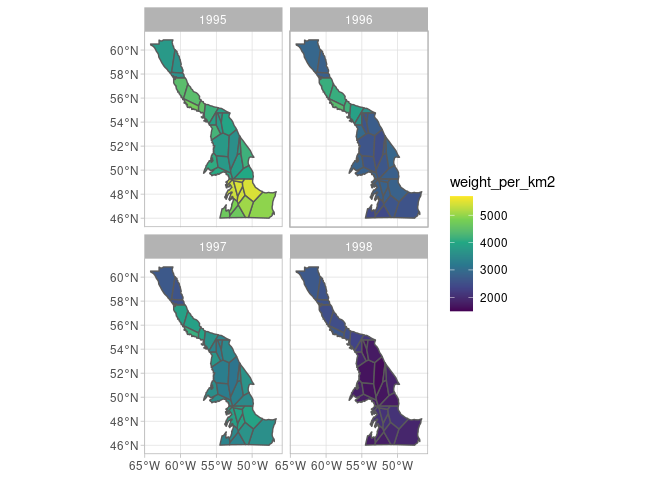
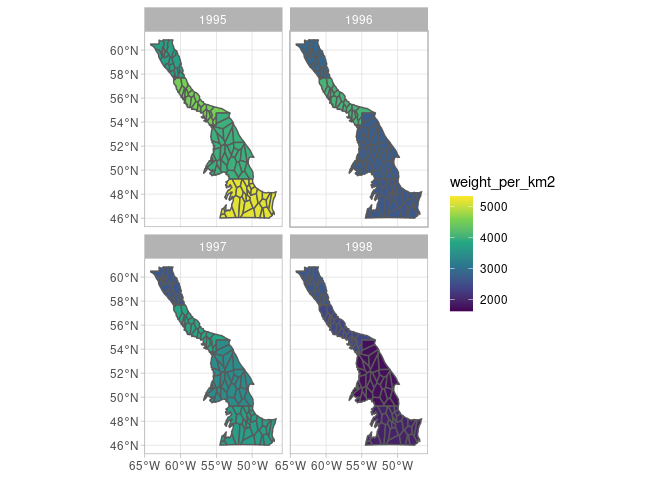
update readme

diff --git a/README.md b/README.md
@@ -148,8 +148,8 @@ bounds_voronoi
 #> 
 #> ‒‒ Boundaries (Discrete) ‒‒
 #> →  [4 rows, 3 columns]
-#>   ٭ Points — [120 features, 11 columns]
-#>   ٭ Patches — [35 features, 4 columns]
+#>   ٭ Points — [120 features, 10 columns]
+#>   ٭ Patches — [92 features, 4 columns]
 #> →  Column : sfa
 #> →  Area : area_sfa
 ```
@@ -190,47 +190,47 @@ plot(bounds_delaunay)
 
 ``` r
 spm_patches(bounds_voronoi)
-#> Simple feature collection with 35 features and 3 fields
+#> Simple feature collection with 92 features and 3 fields
 #> Geometry type: POLYGON
 #> Dimension:     XY
-#> Bounding box:  xmin: -64.18658 ymin: 46.00004 xmax: -46.6269 ymax: 60.84333
+#> Bounding box:  xmin: -64.18658 ymin: 46.00004 xmax: -46.6269 ymax: 60.84488
 #> Geodetic CRS:  WGS 84
-#> # A tibble: 35 × 4
+#> # A tibble: 92 × 4
 #>    sfa   patch_id patch_area                                            geometry
 #>  * <fct> <fct>        [km^2]                                       <POLYGON [°]>
-#>  1 4     P1           31350. ((-61.49885 58.11503, -61.24738 58.14026, -60.7703…
-#>  2 4     P2           11607. ((-60.77034 60.02342, -61.24738 58.14026, -59.6984…
-#>  3 4     P3            4619. ((-59.37831 57.67423, -59.43377 57.71988, -59.4892…
-#>  4 5     P4           13657. ((-56.7447 54.34709, -56.66417 54.34705, -56.66416…
-#>  5 5     P5           14514. ((-59.6728 55.88317, -59.58696 55.95008, -58.97613…
-#>  6 5     P6           15164. ((-58.97613 57.16068, -59.58696 55.95008, -57.4711…
-#>  7 5     P7            6354. ((-57.48427 54.91192, -57.4711 55.3424, -59.58696 …
-#>  8 5     P8            7935. ((-55 54.75, -54.37418 54.75322, -53.92907 54.7535…
-#>  9 5     P9            5235. ((-56.72208 54.49769, -56.56636 55.50528, -56.6883…
-#> 10 6     P10           9317. ((-52.69796 49.24956, -52.9605 49.75061, -54.76086…
-#> # … with 25 more rows
+#>  1 4     P1            5867. ((-62.56544 59.47292, -62.51885 60.2501, -62.42353…
+#>  2 4     P2            6294. ((-61.15825 60.5856, -61.18083 60.61861, -61.16696…
+#>  3 4     P3            1594. ((-61.98352 59.91756, -62.14032 59.90335, -62.3916…
+#>  4 4     P4            1882. ((-61.60726 58.17744, -61.55968 58.21747, -61.5430…
+#>  5 4     P5            1890. ((-61.54308 58.72455, -60.98005 58.90554, -60.9787…
+#>  6 4     P6            2149. ((-62.81971 59.18792, -62.54312 59.42411, -62.5654…
+#>  7 4     P7            2461. ((-61.55968 58.21747, -60.90082 58.30673, -60.7969…
+#>  8 4     P8            1580. ((-60.85729 60.08226, -60.87677 60.07412, -61.2755…
+#>  9 4     P9            7244. ((-60.30623 57.88979, -60.09616 58.23633, -60.1909…
+#> 10 4     P10           1570. ((-59.93021 58.87649, -60.19091 58.62062, -60.0961…
+#> # … with 82 more rows
 spm_points(bounds_voronoi)
-#> Simple feature collection with 120 features and 10 fields
+#> Simple feature collection with 120 features and 9 fields
 #> Geometry type: POINT
 #> Dimension:     XY
-#> Bounding box:  xmin: -62.7333 ymin: 46.10625 xmax: -47.27537 ymax: 60.35241
+#> Bounding box:  xmin: -62.95014 ymin: 46.05739 xmax: -47.39935 ymax: 60.81292
 #> Geodetic CRS:  WGS 84
-#> # A tibble: 120 × 11
+#> # A tibble: 120 × 10
 #> # Groups:   sfa [4]
-#>    year_f sfa   weight_per_km2 temp_at_bottom lon_dec lat_dec   row uniqueID   
-#>  * <fct>  <chr>      [kg/km^2]          <dbl>   <dbl>   <dbl> <int> <chr>      
-#>  1 1995   7                0            1.45    -58.8    56.3     6 y1995s7r6  
-#>  2 1995   5                0            0       -50.6    50.6    51 y1995s5r51 
-#>  3 1996   7              759.           0.605   -55.5    50.2    69 y1996s7r69 
-#>  4 1996   6            13293.           3.00    -53.4    46.4   100 y1996s6r100
-#>  5 1996   5                0            0.934   -52.8    52.2   113 y1996s5r113
-#>  6 1996   4             2050.           2.92    -53.1    50.8   125 y1996s4r125
-#>  7 1997   7             1368.           0       -57.4    55.1   147 y1997s7r147
-#>  8 1997   6               85.4          2.31    -50.7    47.7   176 y1997s6r176
-#>  9 1997   4                0            5.18    -60.9    59.6   182 y1997s4r182
-#> 10 1997   5             4535.           1.27    -51.5    49.3   206 y1997s5r206
-#> # … with 110 more rows, and 3 more variables: geometry <POINT [°]>,
-#> #   sfa_duplicate <fct>, area_sfa [km^2]
+#>    year_f weight_per_km2 temp_at_bottom lon_dec lat_dec   row uniqueID   
+#>  * <fct>       [kg/km^2]          <dbl>   <dbl>   <dbl> <int> <chr>      
+#>  1 1995            7117.          3.88    -61.7    60.0    21 y1995s6r21 
+#>  2 1995               0           2.33    -59.2    57.3    23 y1995s6r23 
+#>  3 1995               0           1.03    -54.0    46.1    40 y1995s6r40 
+#>  4 1996             553.          2.97    -59.5    56.0    65 y1996s7r65 
+#>  5 1996            6538.          4.42    -61.3    60.8   102 y1996s5r102
+#>  6 1996            2427.          2.17    -55.4    54.4   105 y1996s5r105
+#>  7 1996            1945.          0       -48.4    47.2   138 y1996s4r138
+#>  8 1997               0           0.649   -55.3    54.7   144 y1997s7r144
+#>  9 1997            1430.          0       -54.4    50.2   149 y1997s7r149
+#> 10 1997               0           5.18    -60.9    59.6   182 y1997s4r182
+#> # … with 110 more rows, and 3 more variables: geometry <POINT [°]>, sfa <fct>,
+#> #   area_sfa [km^2]
 ```
 
 7.  The next step in this workflow is to smooth the variables to be used
@@ -259,7 +259,7 @@ biomass_smooth
 #> →  [1801 rows, 12 columns]
 #> →  Density : weight_per_km2
 #> →  Time : year_f
-#> →  Smoothed data : [840 rows, 8 columns]
+#> →  Smoothed data : [2208 rows, 8 columns]
 #>    ٭ Smoothed vars: temp_at_bottom — weight_per_km2
 ```
 
@@ -287,8 +287,6 @@ predator_smooth <- predator_dataset %>%
              boundaries = bounds_voronoi,
              drop.unused.levels = F, family=tw, method= "fREML")
 #> ℹ  Fitting formula: weight_per_km2 ~ smooth_time(k = 3) + smooth_space() for dataset 'all_predators'
-#> Warning in bgam.fit(G, mf, chunk.size, gp, scale, gamma, method = method, :
-#> algorithm did not converge
 
 predator_smooth
 #> 
@@ -296,7 +294,7 @@ predator_smooth
 #> →  [10201 rows, 11 columns]
 #> →  Density : weight_per_km2
 #> →  Time : year_f
-#> →  Smoothed data : [1400 rows, 7 columns]
+#> →  Smoothed data : [3680 rows, 7 columns]
 #>    ٭ Smoothed vars: weight_per_km2
 ```
 
@@ -339,7 +337,7 @@ biomass_smooth_w_catch
 #> →  [1801 rows, 12 columns]
 #> →  Density : weight_per_km2
 #> →  Time : year_f
-#> →  Smoothed data : [840 rows, 13 columns]
+#> →  Smoothed data : [2208 rows, 13 columns]
 #>    ٭ Smoothed vars: temp_at_bottom — weight_per_km2
 #>    ٭ Vars with catch: weight_per_km2_borealis_with_catch
 ```
@@ -356,7 +354,7 @@ sspm_model <- sspm(biomass = biomass_smooth_w_catch,
 sspm_model
 #> 
 #> ‒‒ Model (2 datasets) ‒‒
-#> →  Smoothed data : [840 rows, 14 columns]
+#> →  Smoothed data : [2208 rows, 14 columns]
 #>    ٭ Smoothed vars: temp_at_bottom — weight_per_km2_all_predators — weight_per_km2_borealis
 #>    ٭ Vars with catch: weight_per_km2_borealis_with_catch
 ```
@@ -371,7 +369,7 @@ sspm_model <- sspm_model %>%
 sspm_model
 #> 
 #> ‒‒ Model (2 datasets) ‒‒
-#> →  Smoothed data : [840 rows, 15 columns] / [805 train, 35 test]
+#> →  Smoothed data : [2208 rows, 15 columns] / [2116 train, 92 test]
 #>    ٭ Smoothed vars: temp_at_bottom — weight_per_km2_all_predators — weight_per_km2_borealis
 #>    ٭ Vars with catch: weight_per_km2_borealis_with_catch
 ```
@@ -388,7 +386,7 @@ sspm_model <- sspm_model %>%
 sspm_model
 #> 
 #> ‒‒ Model (2 datasets) ‒‒
-#> →  Smoothed data : [840 rows, 17 columns] / [805 train, 35 test]
+#> →  Smoothed data : [2208 rows, 17 columns] / [2116 train, 92 test]
 #>    ٭ Smoothed vars: temp_at_bottom — weight_per_km2_all_predators — weight_per_km2_borealis
 #>    ٭ Vars with catch: weight_per_km2_borealis_with_catch — weight_per_km2_borealis_with_catch_lag_1
 #>    ٭ lagged vars: weight_per_km2_all_predators_lag_1 — weight_per_km2_borealis_with_catch_lag_1
@@ -408,10 +406,10 @@ sspm_model_fit <- sspm_model %>%
 sspm_model_fit
 #> 
 #> ‒‒ Model fit ‒‒
-#> →  Smoothed data : [840 rows, 17 columns] / [805 train, 35 test]
+#> →  Smoothed data : [2208 rows, 17 columns] / [2116 train, 92 test]
 #> →  Fit summary : 
 #> 
-#> Family: Scaled t(7.607,0.19) 
+#> Family: Scaled t(12.132,0.197) 
 #> Link function: identity 
 #> 
 #> Formula:
@@ -421,23 +419,23 @@ sspm_model_fit
 #> 
 #> Parametric coefficients:
 #>                                     Estimate Std. Error t value Pr(>|t|)    
-#> (Intercept)                        5.896e-01  6.189e-02   9.525  < 2e-16 ***
-#> sfa5                               5.405e-02  3.240e-02   1.668  0.09568 .  
-#> sfa6                               9.308e-02  3.022e-02   3.080  0.00214 ** 
-#> sfa7                               7.824e-02  3.071e-02   2.548  0.01103 *  
-#> weight_per_km2_all_predators_lag_1 1.244e-05  1.800e-05   0.691  0.48990    
+#> (Intercept)                        6.451e-01  3.662e-02  17.617  < 2e-16 ***
+#> sfa5                               5.280e-02  1.585e-02   3.331 0.000882 ***
+#> sfa6                               9.309e-02  1.516e-02   6.139 1.00e-09 ***
+#> sfa7                               8.667e-02  1.552e-02   5.584 2.67e-08 ***
+#> weight_per_km2_all_predators_lag_1 3.426e-05  1.096e-05   3.127 0.001793 ** 
 #> ---
 #> Signif. codes:  0 '***' 0.001 '**' 0.01 '*' 0.05 '.' 0.1 ' ' 1
 #> 
 #> Approximate significance of smooth terms:
-#>                           edf Ref.df       F p-value    
-#> s(lag_matrix):by_matrix 4.958      5 117.482  <2e-16 ***
-#> s(patch_id)             1.006     28   7.471  <2e-16 ***
+#>                            edf Ref.df     F p-value    
+#> s(lag_matrix):by_matrix 4.9849      5 332.5  <2e-16 ***
+#> s(patch_id)             0.9987     29  22.2  <2e-16 ***
 #> ---
 #> Signif. codes:  0 '***' 0.001 '**' 0.01 '*' 0.05 '.' 0.1 ' ' 1
 #> 
-#> R-sq.(adj) =  0.758   Deviance explained = 53.3%
-#> -REML =   1135  Scale est. = 1         n = 770
+#> R-sq.(adj) =  0.649   Deviance explained = 49.4%
+#> -REML =   2918  Scale est. = 1         n = 2024
 ```
 
 16. Plotting the object produces a actual vs predicted plot (with
@@ -445,7 +443,7 @@ sspm_model_fit
 
 ``` r
 plot(sspm_model_fit, train_test = TRUE, scales = "free")
-#> Warning: Removed 35 rows containing missing values (geom_point).
+#> Warning: Removed 92 rows containing missing values (geom_point).
 ```
 
 <img src="man/figures/README-unnamed-chunk-21-1.png" width="100%" />
@@ -458,22 +456,22 @@ head(preds)
 #> Simple feature collection with 6 features and 6 fields
 #> Geometry type: POLYGON
 #> Dimension:     XY
-#> Bounding box:  xmin: -64.18658 ymin: 58.11503 xmax: -60.77034 ymax: 60.84333
+#> Bounding box:  xmin: -64.18658 ymin: 59.47292 xmax: -62.26589 ymax: 60.84335
 #> Geodetic CRS:  WGS 84
 #>      pred_log      pred patch_id year_f sfa      patch_area
-#> 1 -0.02730678 0.9730627       P1   1995   4 31350.28 [km^2]
-#> 2 -0.19554690 0.8223848       P1   1996   4 31350.28 [km^2]
-#> 3  0.05315999 1.0545984       P1   1997   4 31350.28 [km^2]
-#> 4 -0.01628782 0.9838441       P1   1998   4 31350.28 [km^2]
-#> 5  0.03051588 1.0309863       P1   1999   4 31350.28 [km^2]
-#> 6  0.01365585 1.0137495       P1   2000   4 31350.28 [km^2]
+#> 1 -0.01082131 0.9892370       P1   1995   4 5866.769 [km^2]
+#> 2 -0.20447196 0.8150776       P1   1996   4 5866.769 [km^2]
+#> 3  0.05312451 1.0545609       P1   1997   4 5866.769 [km^2]
+#> 4 -0.01467134 0.9854358       P1   1998   4 5866.769 [km^2]
+#> 5  0.04595468 1.0470270       P1   1999   4 5866.769 [km^2]
+#> 6  0.01870983 1.0188860       P1   2000   4 5866.769 [km^2]
 #>                         geometry
-#> 1 POLYGON ((-61.49885 58.1150...
-#> 2 POLYGON ((-61.49885 58.1150...
-#> 3 POLYGON ((-61.49885 58.1150...
-#> 4 POLYGON ((-61.49885 58.1150...
-#> 5 POLYGON ((-61.49885 58.1150...
-#> 6 POLYGON ((-61.49885 58.1150...
+#> 1 POLYGON ((-62.56544 59.4729...
+#> 2 POLYGON ((-62.56544 59.4729...
+#> 3 POLYGON ((-62.56544 59.4729...
+#> 4 POLYGON ((-62.56544 59.4729...
+#> 5 POLYGON ((-62.56544 59.4729...
+#> 6 POLYGON ((-62.56544 59.4729...
 ```
 
 We can also get the predictions for biomass by passing the biomass
@@ -485,29 +483,29 @@ head(biomass_preds)
 #> Simple feature collection with 6 features and 8 fields
 #> Geometry type: POLYGON
 #> Dimension:     XY
-#> Bounding box:  xmin: -64.18658 ymin: 58.11503 xmax: -60.77034 ymax: 60.84333
+#> Bounding box:  xmin: -64.18658 ymin: 59.47292 xmax: -62.26589 ymax: 60.84335
 #> Geodetic CRS:  WGS 84
 #>   patch_id year_f sfa      patch_area biomass_density_with_catch
-#> 1       P1   1995   4 31350.28 [km^2]         3647.214 [kg/km^2]
-#> 2       P1   1996   4 31350.28 [km^2]         2374.311 [kg/km^2]
-#> 3       P1   1997   4 31350.28 [km^2]         2808.305 [kg/km^2]
-#> 4       P1   1998   4 31350.28 [km^2]         2627.772 [kg/km^2]
-#> 5       P1   1999   4 31350.28 [km^2]         2632.060 [kg/km^2]
-#> 6       P1   2000   4 31350.28 [km^2]         2542.133 [kg/km^2]
-#>      biomass_density biomass_with_catch        biomass
-#> 1 3646.640 [kg/km^2]     114341186 [kg] 114323179 [kg]
-#> 2 2374.120 [kg/km^2]      74435325 [kg]  74429343 [kg]
-#> 3 2807.640 [kg/km^2]      88041135 [kg]  88020295 [kg]
-#> 4 2627.087 [kg/km^2]      82381383 [kg]  82359909 [kg]
-#> 5 2631.644 [kg/km^2]      82515821 [kg]  82502764 [kg]
-#> 6 2541.481 [kg/km^2]      79696589 [kg]  79676157 [kg]
+#> 1       P1   1995   4 5866.769 [km^2]         3685.499 [kg/km^2]
+#> 2       P1   1996   4 5866.769 [km^2]         2319.445 [kg/km^2]
+#> 3       P1   1997   4 5866.769 [km^2]         2777.573 [kg/km^2]
+#> 4       P1   1998   4 5866.769 [km^2]         2595.895 [kg/km^2]
+#> 5       P1   1999   4 5866.769 [km^2]         2633.052 [kg/km^2]
+#> 6       P1   2000   4 5866.769 [km^2]         2521.581 [kg/km^2]
+#>      biomass_density biomass_with_catch       biomass
+#> 1 3684.851 [kg/km^2]      21621970 [kg] 21618171 [kg]
+#> 2 2318.692 [kg/km^2]      13607646 [kg] 13603229 [kg]
+#> 3 2777.140 [kg/km^2]      16295382 [kg] 16292840 [kg]
+#> 4 2595.660 [kg/km^2]      15229518 [kg] 15228138 [kg]
+#> 5 2632.172 [kg/km^2]      15447507 [kg] 15442346 [kg]
+#> 6 2520.828 [kg/km^2]      14793536 [kg] 14789119 [kg]
 #>                         geometry
-#> 1 POLYGON ((-61.49885 58.1150...
-#> 2 POLYGON ((-61.49885 58.1150...
-#> 3 POLYGON ((-61.49885 58.1150...
-#> 4 POLYGON ((-61.49885 58.1150...
-#> 5 POLYGON ((-61.49885 58.1150...
-#> 6 POLYGON ((-61.49885 58.1150...
+#> 1 POLYGON ((-62.56544 59.4729...
+#> 2 POLYGON ((-62.56544 59.4729...
+#> 3 POLYGON ((-62.56544 59.4729...
+#> 4 POLYGON ((-62.56544 59.4729...
+#> 5 POLYGON ((-62.56544 59.4729...
+#> 6 POLYGON ((-62.56544 59.4729...
 ```
 
 We can also predict the biomass one step ahead.
@@ -519,17 +517,17 @@ head(biomass_one_step)
 #> Simple feature collection with 6 features and 5 fields
 #> Geometry type: POLYGON
 #> Dimension:     XY
-#> Bounding box:  xmin: -64.18658 ymin: 53.85362 xmax: -54.70013 ymax: 60.84333
+#> Bounding box:  xmin: -64.18658 ymin: 58.17744 xmax: -60.85729 ymax: 60.84488
 #> Geodetic CRS:  WGS 84
 #> # A tibble: 6 × 6
 #>   patch_id year_f sfa     biomass patch_area                            geometry
 #>   <fct>     <dbl> <fct>      [kg]     [km^2]                       <POLYGON [°]>
-#> 1 P1         2019 4      2226128.     31350. ((-61.49885 58.11503, -61.24738 58…
-#> 2 P2         2019 4       916547.     11607. ((-60.77034 60.02342, -61.24738 58…
-#> 3 P3         2019 4       330255.      4619. ((-59.37831 57.67423, -59.43377 57…
-#> 4 P4         2019 5       800544.     13657. ((-56.7447 54.34709, -56.66417 54.…
-#> 5 P5         2019 5      1115285.     14514. ((-59.6728 55.88317, -59.58696 55.…
-#> 6 P6         2019 5     32536070.     15164. ((-58.97613 57.16068, -59.58696 55…
+#> 1 P1         2019 4     15936996.      5867. ((-62.56544 59.47292, -62.51885 60…
+#> 2 P2         2019 4     21005361.      6294. ((-61.15825 60.5856, -61.18083 60.…
+#> 3 P3         2019 4      4447293.      1594. ((-61.98352 59.91756, -62.14032 59…
+#> 4 P4         2019 4      4771797.      1882. ((-61.60726 58.17744, -61.55968 58…
+#> 5 P5         2019 4      5449759.      1890. ((-61.54308 58.72455, -60.98005 58…
+#> 6 P6         2019 4      5622850.      2149. ((-62.81971 59.18792, -62.54312 59…
 ```
 
 18. We can produce an array of plots, as timeseries or as spatial plots
@@ -537,7 +535,7 @@ head(biomass_one_step)
 ``` r
 plot(sspm_model_fit, log = T, scales = 'free')
 #> Warning: Removed 1 row(s) containing missing values (geom_path).
-#> Warning: Removed 35 rows containing missing values (geom_point).
+#> Warning: Removed 92 rows containing missing values (geom_point).
 ```
 
 <img src="man/figures/README-unnamed-chunk-25-1.png" width="100%" />
